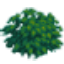
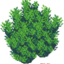
update

diff --git a/server/js/genesis.js b/server/js/genesis.js
@@ -168,7 +168,6 @@ function genesis(config = {}){
   var mountainThreshold = config.mountainThreshold !== undefined ? config.mountainThreshold : 0.99;  // Value threshold for mountains (0.99 = very high elevation)
   var rocksThreshold = config.rocksThreshold !== undefined ? config.rocksThreshold : 0.85;     // Value threshold for rocks (0.85 = high elevation)
   var brushThreshold = config.brushThreshold !== undefined ? config.brushThreshold : 0.3;     // Hue threshold for brush (0.3 = dry/arid regions)
-  var lightForestThreshold = config.lightForestThreshold !== undefined ? config.lightForestThreshold : 0.32; // Hue threshold for light forest (0.32 = transition zone)
 
   // converts (h,v) data to game tilemap format
   function terraform(source, width, height, tileWidth, tileHeight){
@@ -202,12 +201,7 @@ function genesis(config = {}){
             oSet.push(3 + Number((Math.random()*0.9).toFixed(2)));
             uSet.push(0);
             i++;
-          // LIGHT FOREST: Hue < lightForestThreshold (transitional forest)
-          } else if (source[i][0] < lightForestThreshold){
-            oSet.push(2 + Number((Math.random()*0.9).toFixed(2)));
-            uSet.push(0);
-            i++;
-          // HEAVY FOREST: Default terrain (dense forest)
+          // HEAVY FOREST: Default terrain (dense forest - all remaining forest areas)
           } else {
             oSet.push(1 + Number((Math.random()*0.9).toFixed(2)));
             uSet.push(0);
@@ -506,9 +500,7 @@ function genesis(config = {}){
   // add resources to Overworld
   for(x = 0; x < mapTiles; x++){
     for(y = 0; y < mapTiles; y++){
-      if((worldMaps[0][y][x] >= 2 && worldMaps[0][y][x] < 3) || (worldMaps[0][y][x] >= 4 && worldMaps[0][y][x] < 5)){
-        worldMaps[6][y][x] = 50;
-      } else if((worldMaps[0][y][x] >= 1 && worldMaps[0][y][x] < 2) || (worldMaps[0][y][x] >= 5 && worldMaps[0][y][x] < 6)){
+      if((worldMaps[0][y][x] >= 1 && worldMaps[0][y][x] < 2) || (worldMaps[0][y][x] >= 5 && worldMaps[0][y][x] < 6)){
         worldMaps[6][y][x] = 100;
       } else {
         continue;
@@ -554,9 +546,8 @@ const presets = {
     blueOffset: 0.15,
     waterThreshold: 0.4,
     mountainThreshold: 0.99,
-    rocksThreshold: 0.85,
-    brushThreshold: 0.3,
-    lightForestThreshold: 0.31
+    rocksThreshold: 0.87,
+    brushThreshold: 0.3
   },
   islands: {
     redFrequencyX: 53,
@@ -574,8 +565,7 @@ const presets = {
     waterThreshold: 0.36,
     mountainThreshold: 0.99,
     rocksThreshold: 0.85,
-    brushThreshold: 0.3,
-    lightForestThreshold: 0.32
+    brushThreshold: 0.3
   },
   mainland: {
     redFrequencyX: 49,
@@ -593,27 +583,25 @@ const presets = {
     waterThreshold: 0.64,
     mountainThreshold: 0.99,
     rocksThreshold: 0.83,
-    brushThreshold: 0.32,
-    lightForestThreshold: 0.4
+    brushThreshold: 0.32
   },
   wild: {
-    redFrequencyX: 21,
-    redFrequencyY: 28,
+    redFrequencyX: 32,
+    redFrequencyY: 42,
     redAmplitude: 0.45,
     redOffset: 0.33,
-    greenFrequencyX: 15,
-    greenFrequencyY: 15,
+    greenFrequencyX: 22,
+    greenFrequencyY: 22,
     greenAmplitude: 0.33,
     greenOffset: 0.42,
-    blueFrequencyX: 4,
-    blueFrequencyY: 4,
+    blueFrequencyX: 6,
+    blueFrequencyY: 6,
     blueAmplitude: 0.33,
     blueOffset: 0.19,
-    waterThreshold: 0.55,
+    waterThreshold: 0.52,
     mountainThreshold: 0.99,
-    rocksThreshold: 0.83,
-    brushThreshold: 0.3,
-    lightForestThreshold: 0.32
+    rocksThreshold: 0.77,
+    brushThreshold: 0.31
   }
 };
 

diff --git a/mapmodeler/js/controls.js b/mapmodeler/js/controls.js
@@ -26,7 +26,6 @@ class MapControls {
       mountainThreshold: 0.99,
       rocksThreshold: 0.85,
       brushThreshold: 0.3,
-      lightForestThreshold: 0.32,
       mapSize: 192
     };
     
@@ -136,7 +135,6 @@ class MapControls {
       'mountainThreshold': 'mountainThreshold',
       'rocksThreshold': 'rocksThreshold',
       'brushThreshold': 'brushThreshold',
-      'lightForestThreshold': 'lightForestThreshold',
       'mapSize': 'mapSize'
     };
     
@@ -236,7 +234,6 @@ class MapControls {
       'mountainThreshold': 'mountainThreshold',
       'rocksThreshold': 'rocksThreshold',
       'brushThreshold': 'brushThreshold',
-      'lightForestThreshold': 'lightForestThreshold',
       'mapSize': 'mapSize'
     };
     
@@ -275,8 +272,7 @@ class MapControls {
         waterThreshold: 0.55,
         mountainThreshold: 0.97,
         rocksThreshold: 0.86,
-        brushThreshold: 0.26,
-        lightForestThreshold: 0.31
+        brushThreshold: 0.26
       },
       islands: {
         redFrequencyX: 100,
@@ -294,8 +290,7 @@ class MapControls {
         waterThreshold: 0.45,
         mountainThreshold: 0.95,
         rocksThreshold: 0.82,
-        brushThreshold: 0.24,
-        lightForestThreshold: 0.28
+        brushThreshold: 0.24
       },
       continents: {
         redFrequencyX: 80,
@@ -313,8 +308,7 @@ class MapControls {
         waterThreshold: 0.6,
         mountainThreshold: 0.97,
         rocksThreshold: 0.86,
-        brushThreshold: 0.26,
-        lightForestThreshold: 0.31
+        brushThreshold: 0.26
       },
       varied: {
         redFrequencyX: 120,
@@ -332,8 +326,7 @@ class MapControls {
         waterThreshold: 0.55,
         mountainThreshold: 0.96,
         rocksThreshold: 0.88,
-        brushThreshold: 0.22,
-        lightForestThreshold: 0.26
+        brushThreshold: 0.22
       }
     };
     
@@ -384,14 +377,12 @@ class MapControls {
     report += `var waterThreshold = ${this.currentParams.waterThreshold};\n`;
     report += `var mountainThreshold = ${this.currentParams.mountainThreshold};\n`;
     report += `var rocksThreshold = ${this.currentParams.rocksThreshold};\n`;
-    report += `var brushThreshold = ${this.currentParams.brushThreshold};\n`;
-    report += `var lightForestThreshold = ${this.currentParams.lightForestThreshold};\n\n`;
+    report += `var brushThreshold = ${this.currentParams.brushThreshold};\n\n`;
     
     if (mapData && mapData.distribution) {
       report += `// TERRAIN DISTRIBUTION\n`;
       report += `// Water: ${mapData.distribution.water} tiles (${((mapData.distribution.water / (mapData.mapSize * mapData.mapSize)) * 100).toFixed(1)}%)\n`;
       report += `// Heavy Forest: ${mapData.distribution.heavyForest} tiles (${((mapData.distribution.heavyForest / (mapData.mapSize * mapData.mapSize)) * 100).toFixed(1)}%)\n`;
-      report += `// Light Forest: ${mapData.distribution.lightForest} tiles (${((mapData.distribution.lightForest / (mapData.mapSize * mapData.mapSize)) * 100).toFixed(1)}%)\n`;
       report += `// Brush: ${mapData.distribution.brush} tiles (${((mapData.distribution.brush / (mapData.mapSize * mapData.mapSize)) * 100).toFixed(1)}%)\n`;
       report += `// Rocks: ${mapData.distribution.rocks} tiles (${((mapData.distribution.rocks / (mapData.mapSize * mapData.mapSize)) * 100).toFixed(1)}%)\n`;
       report += `// Mountain: ${mapData.distribution.mountain} tiles (${((mapData.distribution.mountain / (mapData.mapSize * mapData.mapSize)) * 100).toFixed(1)}%)\n`;

diff --git a/mapmodeler/js/export.js b/mapmodeler/js/export.js
@@ -53,8 +53,7 @@ class MapExporter {
     report += `var waterThreshold = ${params.waterThreshold};    // Hue threshold for water\n`;
     report += `var mountainThreshold = ${params.mountainThreshold};  // Value threshold for mountains\n`;
     report += `var rocksThreshold = ${params.rocksThreshold};     // Value threshold for rocks\n`;
-    report += `var brushThreshold = ${params.brushThreshold};     // Hue threshold for brush\n`;
-    report += `var lightForestThreshold = ${params.lightForestThreshold}; // Hue threshold for light forest\n\n`;
+    report += `var brushThreshold = ${params.brushThreshold};     // Hue threshold for brush\n\n`;
     
     // Terrain distribution section
     if (mapData.distribution) {
@@ -68,7 +67,6 @@ class MapExporter {
       report += `// Total tiles: ${totalTiles}\n`;
       report += `// Water: ${dist.water} tiles (${((dist.water / totalTiles) * 100).toFixed(1)}%)\n`;
       report += `// Heavy Forest: ${dist.heavyForest} tiles (${((dist.heavyForest / totalTiles) * 100).toFixed(1)}%)\n`;
-      report += `// Light Forest: ${dist.lightForest} tiles (${((dist.lightForest / totalTiles) * 100).toFixed(1)}%)\n`;
       report += `// Brush: ${dist.brush} tiles (${((dist.brush / totalTiles) * 100).toFixed(1)}%)\n`;
       report += `// Rocks: ${dist.rocks} tiles (${((dist.rocks / totalTiles) * 100).toFixed(1)}%)\n`;
       report += `// Mountain: ${dist.mountain} tiles (${((dist.mountain / totalTiles) * 100).toFixed(1)}%)\n`;
@@ -87,7 +85,7 @@ class MapExporter {
         report += `// This is a balanced map (${waterPercent.toFixed(1)}% water, ${landPercent.toFixed(1)}% land)\n`;
       }
       
-      const forestPercent = ((dist.heavyForest + dist.lightForest) / totalTiles) * 100;
+      const forestPercent = (dist.heavyForest / totalTiles) * 100;
       if (forestPercent > 40) {
         report += `// Forest-dominant terrain (${forestPercent.toFixed(1)}% forest)\n`;
       } else if (forestPercent < 20) {
@@ -139,7 +137,7 @@ class MapExporter {
     report += `${params.blueFrequencyX}, ${params.blueFrequencyY}, ${params.blueAmplitude}, ${params.blueOffset}\n\n`;
     
     report += `// Thresholds\n`;
-    report += `${params.waterThreshold}, ${params.mountainThreshold}, ${params.rocksThreshold}, ${params.brushThreshold}, ${params.lightForestThreshold}\n`;
+    report += `${params.waterThreshold}, ${params.mountainThreshold}, ${params.rocksThreshold}, ${params.brushThreshold}\n`;
     
     return report;
   }

diff --git a/mapmodeler/js/genesis.js b/mapmodeler/js/genesis.js
@@ -115,7 +115,6 @@ function generateMap(params = {}) {
     mountainThreshold: 0.99,
     rocksThreshold: 0.85,
     brushThreshold: 0.3,
-    lightForestThreshold: 0.32,
     
     // Map settings
     mapSize: 192,
@@ -220,12 +219,7 @@ function generateMap(params = {}) {
             oSet.push(3 + Number((Math.random()*0.9).toFixed(2)));
             uSet.push(0);
             i++;
-          // LIGHT FOREST: Hue < lightForestThreshold (transitional forest)
-          } else if (source[i][0] < config.lightForestThreshold){
-            oSet.push(2 + Number((Math.random()*0.9).toFixed(2)));
-            uSet.push(0);
-            i++;
-          // HEAVY FOREST: Default terrain (dense forest)
+          // HEAVY FOREST: Default terrain (dense forest - all remaining forest areas)
           } else {
             oSet.push(1 + Number((Math.random()*0.9).toFixed(2)));
             uSet.push(0);

diff --git a/server/js/core/TerrainSegmentation.js b/server/js/core/TerrainSegmentation.js
@@ -154,12 +154,12 @@ class TerrainSegmentation {
         return { type: 'waters', baseName: 'Waters' };
         
       case 1: // HEAVY_FOREST
-        if (size < 20) return null; // Reduced from 80
+        if (size < 20) return null; // Too small to be a zone
+        // Smaller heavy forest zones are "Woods", larger ones are "Forest"
+        if (size >= 75) {
+          return { type: 'forest', baseName: 'Forest' };
+        }
         return { type: 'woods', baseName: 'Woods' };
-        
-      case 2: // LIGHT_FOREST
-        if (size < 15) return null; // Reduced from 50
-        return { type: 'forest', baseName: 'Forest' };
         
       case 3: // BRUSH
         if (size < 50) return null; // Increased from 30 to reduce small patches

diff --git a/mapmodeler/index.html b/mapmodeler/index.html
@@ -116,10 +116,6 @@
                         <label for="brushThreshold">Brush Threshold: <span id="brushThreshold-value">0.3</span></label>
                         <input type="range" id="brushThreshold" min="0.1" max="0.4" value="0.3" step="0.01">
                     </div>
-                    <div class="slider-group">
-                        <label for="lightForestThreshold">Light Forest Threshold: <span id="lightForestThreshold-value">0.32</span></label>
-                        <input type="range" id="lightForestThreshold" min="0.2" max="0.5" value="0.32" step="0.01">
-                    </div>
                 </div>
 
                 <!-- Presets -->

diff --git a/documentation/GENESIS_SYSTEM.md b/documentation/GENESIS_SYSTEM.md
@@ -92,10 +92,9 @@ The `terraform()` function converts HSV values to terrain types:
      - Value: `4 + random(0.0-0.9)` (ROCKS with variation)
    - **Brush**: `H <= brushThreshold` (0.3)
      - Value: `3 + random(0.0-0.9)` (BRUSH with variation)
-   - **Light Forest**: `H < lightForestThreshold` (0.32)
-     - Value: `2 + random(0.0-0.9)` (LIGHT_FOREST with variation)
    - **Heavy Forest**: Default (everything else)
      - Value: `1 + random(0.0-0.9)` (HEAVY_FOREST with variation)
+     - **Note**: Light forest is not generated initially. It only appears when heavy forest resources are depleted below 100 units through gameplay.
 
 4. **Add random variation** (0.0-0.9) to terrain values for visual variety
    - Applied via: `Number((Math.random()*0.9).toFixed(2))`
@@ -167,13 +166,10 @@ The `geoform()` function generates cave systems using a random walk algorithm:
 
 Resources are placed based on terrain type:
 
-- **Light Forest (2-3) or Rocks (4-5)**: 50 units
-  - Condition: `worldMaps[0][y][x] >= 2 && worldMaps[0][y][x] < 3` OR `worldMaps[0][y][x] >= 4 && worldMaps[0][y][x] < 5`
-  - Sets: `worldMaps[6][y][x] = 50`
-
 - **Heavy Forest (1-2) or Mountain (5-6)**: 100 units
   - Condition: `worldMaps[0][y][x] >= 1 && worldMaps[0][y][x] < 2` OR `worldMaps[0][y][x] >= 5 && worldMaps[0][y][x] < 6`
   - Sets: `worldMaps[6][y][x] = 100`
+  - **Note**: All forest areas are initially generated as heavy forest with 100 resource units. Light forest only appears when heavy forest resources are depleted to ≤100 units through gameplay.
 
 #### Underworld Resources (Layer 7)
 
@@ -254,23 +250,22 @@ These thresholds convert HSV values into terrain types:
 - **brushThreshold**: 0.3
   - Hue threshold for brush
   - Dry/arid regions
-- **lightForestThreshold**: 0.32
-  - Hue threshold for light forest
-  - Transitional forest zone
 
 ## Terrain Type Values
 
 Based on TERRAIN constants defined in `lambic.js`:
 
 - **0**: WATER
-- **1**: HEAVY_FOREST (with random 0.0-0.9 variation)
-- **2**: LIGHT_FOREST (with random 0.0-0.9 variation)
+- **1**: HEAVY_FOREST (with random 0.0-0.9 variation) - **Only forest type generated initially**
+- **2**: LIGHT_FOREST (with random 0.0-0.9 variation) - **Not generated initially; only appears when heavy forest resources drop to ≤100 units**
 - **3**: BRUSH (with random 0.0-0.9 variation)
 - **4**: ROCKS (with random 0.0-0.9 variation)
 - **5**: MOUNTAIN (with random 0.0-0.9 variation)
 - **6**: CAVE_ENTRANCE (placed during cave generation)
 
 **Note**: The random variation (0.0-0.9) is added to base terrain values for visual diversity. For example, a mountain tile might have value `5.47` instead of exactly `5`.
+
+**Important**: Light forest is no longer generated during initial map creation. All forest areas start as heavy forest. Light forest only appears dynamically when heavy forest resources are depleted below the threshold (100 units) through gameplay actions like tree chopping.
 
 ## Integration with Game Systems
 
@@ -393,9 +388,10 @@ To modify world generation, adjust these parameters in `server/js/genesis.js`:
    - Adjust frequencies, amplitudes, and offsets
    - See comments for experimentation guide
 
-2. **Terrain thresholds** (lines 149-154)
+2. **Terrain thresholds** (lines 167-170)
    - Modify terrain distribution
    - Lower thresholds = more of that terrain type
+   - Note: lightForestThreshold has been removed - all forest areas are now generated as heavy forest
 
 3. **Cave generation parameters** (lines 270-277)
    - `maxTunnels`: Total tunnel segments (default: 250)
@@ -403,12 +399,13 @@ To modify world generation, adjust these parameters in `server/js/genesis.js`:
    - `roomChance`: Room creation probability (default: 0.18)
    - `branchChance`: Branch creation probability (default: 0.45)
 
-4. **Resource placement logic** (lines 489-513)
-   - Overworld resource amounts (50, 100)
+4. **Resource placement logic** (lines 506-517)
+   - Overworld resource amounts: Heavy forest and mountains get 100 units
    - Underworld ore probability (0.2 = 20%)
    - Underworld ore amount (150)
+   - Note: Light forest resource placement has been removed - all forest starts as heavy forest with 100 units
 
-5. **Entrance placement probability** (line 259)
+5. **Entrance placement probability** (line 277)
    - Currently: `Math.random() > 0.25` (75% chance)
    - Change threshold to adjust entrance density
 
@@ -422,10 +419,11 @@ To modify world generation, adjust these parameters in `server/js/genesis.js`:
 - **Random variation** (0.0-0.9) is added to terrain values for visual diversity
 - **Cave entrances** are placed at mountain edges (elevation transitions)
 - **Underworld starts as completely solid** (value 1), then carved out by cave generation
-- **Resource layers use numeric values** (50, 100, 150) rather than terrain type codes
+- **Resource layers use numeric values** (100, 150) rather than terrain type codes
 - The **blue channel** in noise generation is set to a fixed value (70) and doesn't contribute to terrain classification
 - **Coordinate system**: Be aware of the `[y][x]` vs `(x, y)` difference between old and new systems
 - **Generation is deterministic** only if SimplexNoise is seeded (currently not seeded, so each run is unique)
+- **Forest generation**: Only heavy forest is generated initially. Light forest only appears when heavy forest resources are depleted to ≤100 units through gameplay
 
 ## Example: Modifying Terrain Distribution
 
@@ -448,6 +446,8 @@ To create larger, more connected landmasses:
 var redFrequencyX = 70; // Changed from 90
 var redFrequencyY = 60; // Changed from 78
 ```
+
+**Note**: The `lightForestThreshold` parameter has been removed. All forest areas are now generated as heavy forest. To affect forest distribution, adjust other thresholds (waterThreshold, brushThreshold, etc.) which control how much land becomes forest vs other terrain types.
 
 ## Related Systems
 

diff --git a/mapmodeler/README.md b/mapmodeler/README.md
@@ -45,7 +45,8 @@ A standalone web-based tool for experimenting with noise algorithm parameters to
 - **Mountain Threshold**: Controls mountain frequency
 - **Rocks Threshold**: Controls rocky terrain frequency
 - **Brush Threshold**: Controls arid regions
-- **Light Forest Threshold**: Controls transitional forest areas
+
+**Note**: Light forest is no longer generated during initial map creation. All forest areas start as heavy forest. Light forest only appears when heavy forest resources are depleted below 100 units through gameplay.
 
 ## Presets
 
